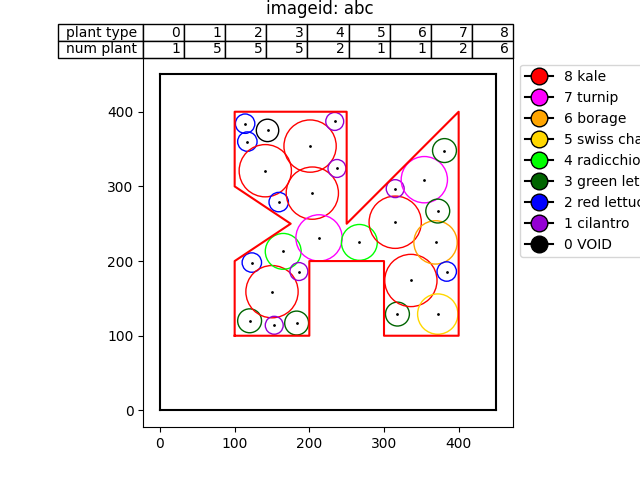
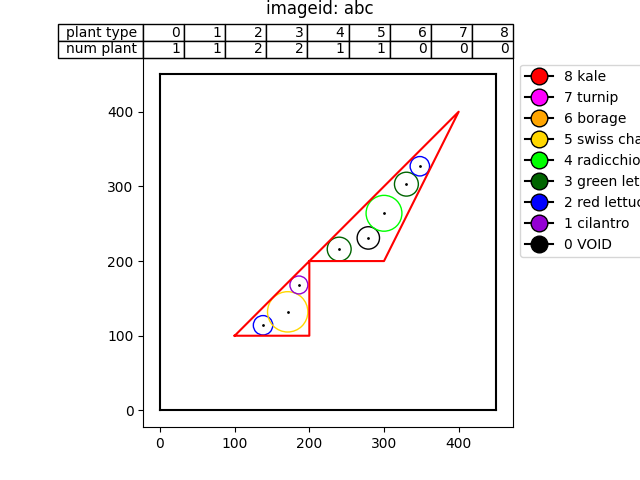
latest changes

diff --git a/GUI/app.py b/GUI/app.py
@@ -40,7 +40,8 @@ def get_parameters():
     # garden["num_each_plant"] = np.full(9, 2) #change later
 
     # #dummy values
-    garden["coordinates"] = [[100, 100], [200, 100], [200, 200], [300, 200], [300, 100], [400, 100], [400, 400],[250, 250], [250, 400], [100, 400], [100, 300], [175, 250], [100, 200], [100, 100]]
+    #garden["coordinates"] = [[100, 100], [200, 100], [200, 200], [300, 200], [300, 100], [400, 100], [400, 400],[250, 250], [250, 400], [100, 400], [100, 300], [175, 250], [100, 200], [100, 100]]
+    garden["coordinates"] = [[100, 100], [200, 100], [200, 200], [300, 200], [400, 400],[250, 250]]
     garden["density"] = 0.75
     garden["distribution"] = 'even'
     garden["beta"] = 0.2
@@ -49,6 +50,7 @@ def get_parameters():
     garden["utility_func_exponent"] = ['same', -6]
     garden["symmetry"] = 'neither'
     garden["num_each_plant"] = np.full(3, 1) #change later
+    garden["num_plants"] = 8
     garden = generate_test_gardens.add_d_to_garden(garden)
     print(garden)
 
@@ -56,7 +58,7 @@ def get_parameters():
                                                         cylinder_nt=cylinder_nt, data=None,
                                                         generate_plotly=generate_plotly, garden=garden,
                                                         save_plotly=save_plotly, save_2d=save_2d)
-    path = os.path.abspath("app.py")
+    path = os.path.abspath("GUI")
     fig.savefig(os.path.join(path, 'test.png'))
     return send_file('test.png', mimetype='image/gif')
 

diff --git a/GUI/generate_test_gardens.py b/GUI/generate_test_gardens.py
@@ -119,7 +119,9 @@ def add_d_to_garden(garden):
 
     # DEFAULT HI-DENSITY PLANT NUMS FOR EVEN DISTRIBUTION, NO VOIDS
     beta = garden['beta']
-    default_num_plants = 9 if beta == 0 else 10 if beta == 0.2 else 12 if beta == 0.4 else 14 if beta == 0.6 else 17 if beta == 0.8 else 21
+    num_plants = garden['num_plants']
+    #default_num_plants = 9 if beta == 0 else 10 if beta == 0.2 else 12 if beta == 0.4 else 14 if beta == 0.6 else 17 if beta == 0.8 else 21
+    default_num_plants = int(0.7*num_plants) if beta == 0 else num_plants if beta == 0.2 else int(1.3*num_plants) if beta == 0.4 else int(1.5*num_plants) if beta == 0.6 else int(1.8*num_plants) if beta == 0.8 else 2*num_plants
     small_plant_extra = 2
 
     d['num_plants'] = np.concatenate((np.full(4, default_num_plants + small_plant_extra), np.full(5, default_num_plants)))
